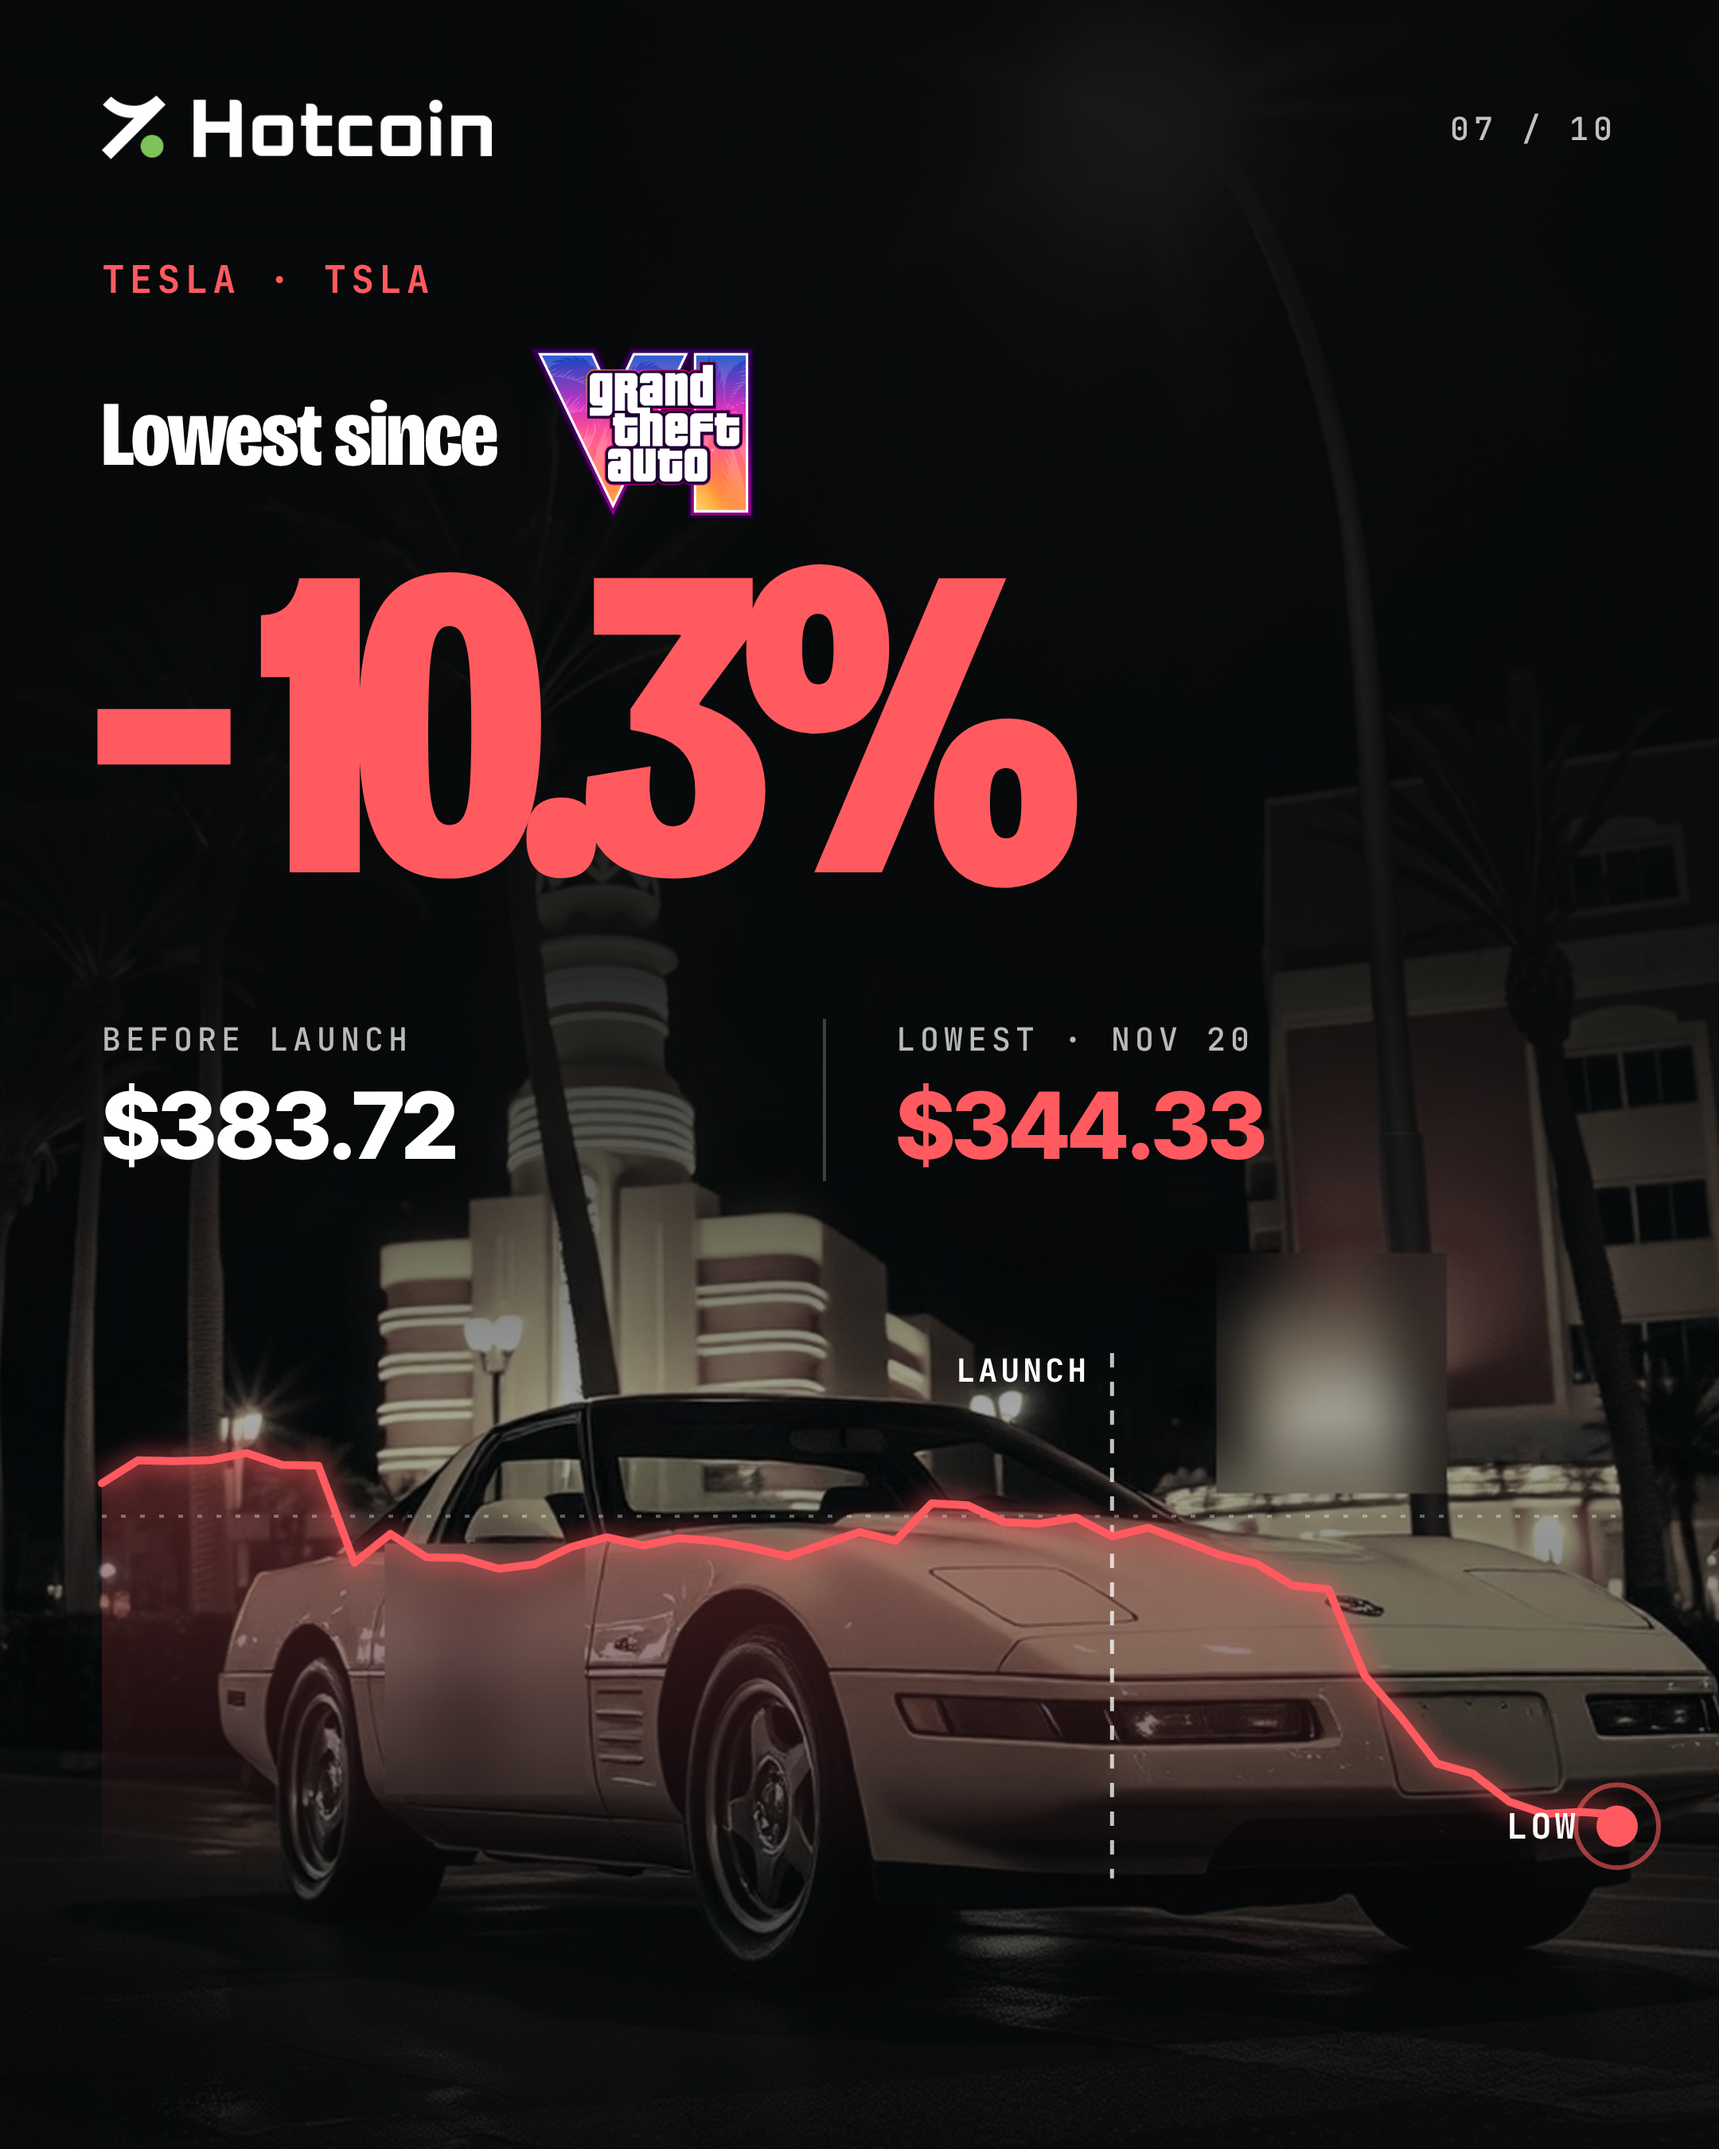
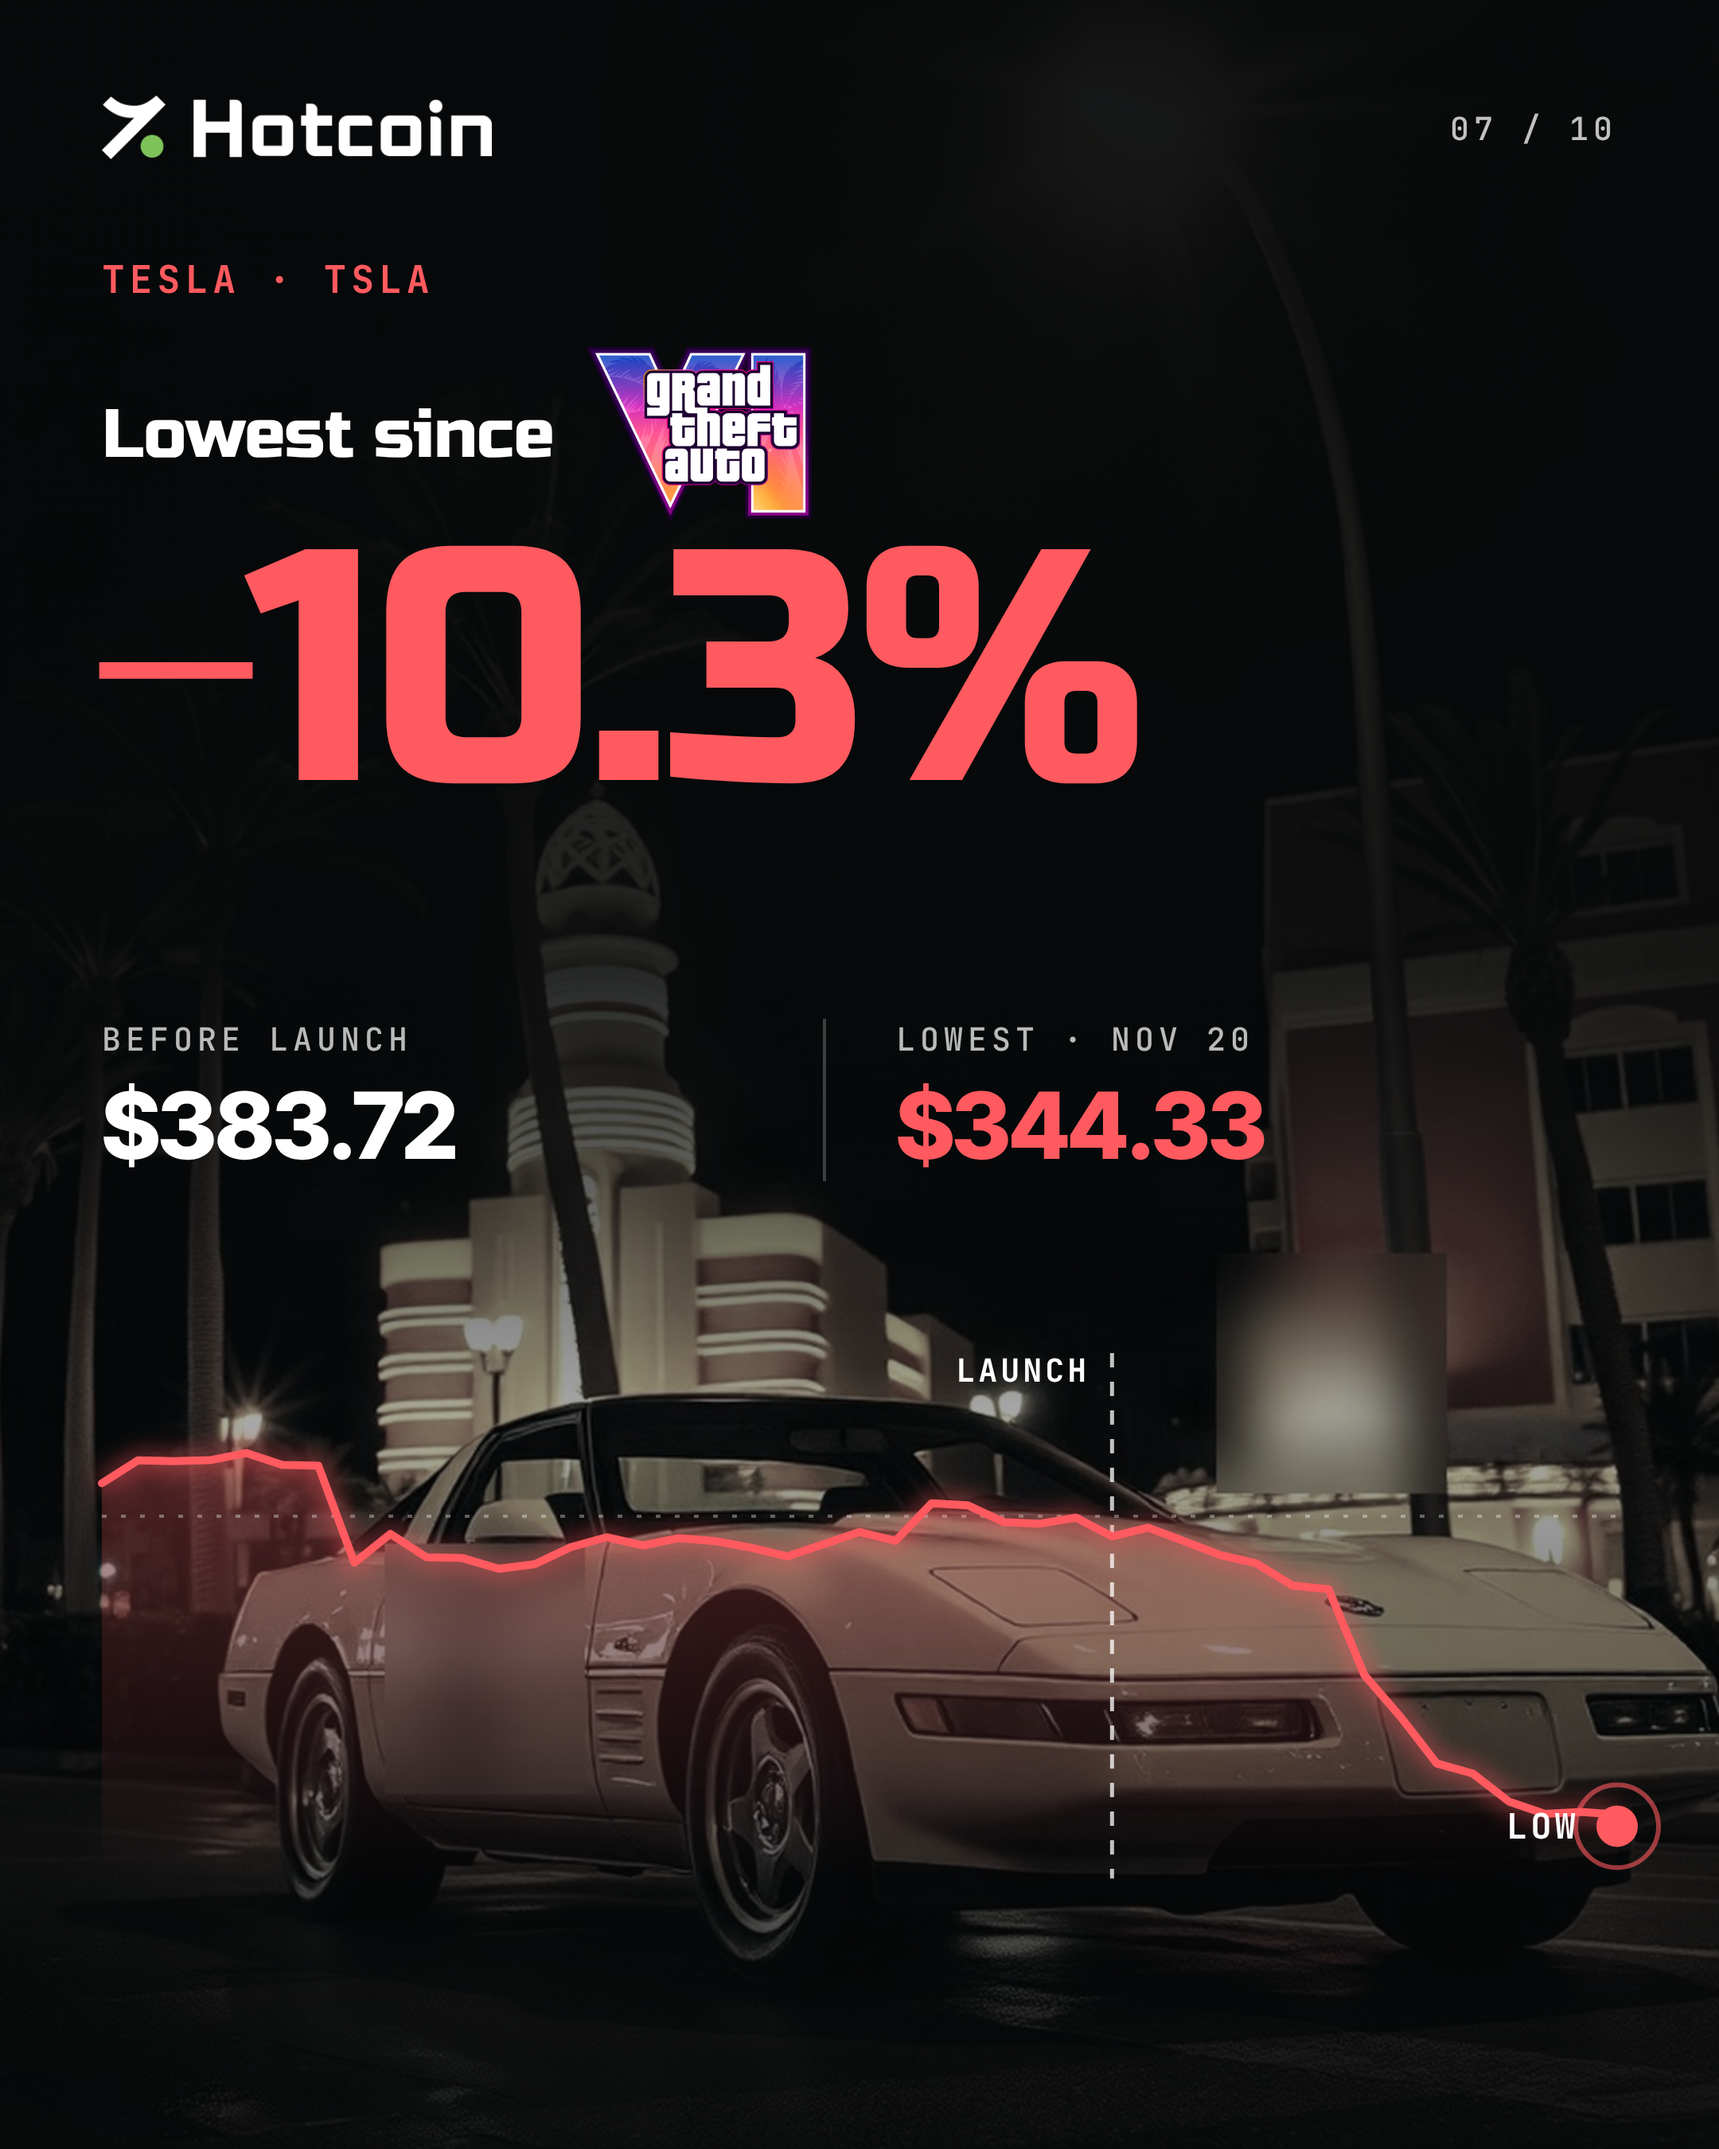
GTA VI carousel final: Russo One display font, question CTA
Claude-Session: https://claude.ai/code/session_018sSiMaWLaeVrJJ4axy8xGi

Changed region(s): [[0.062, 0.1556, 0.6824, 0.4356]]

diff --git a/social/gta6-cheaper/x-post.md b/social/gta6-cheaper/x-post.md
@@ -15,7 +15,8 @@ $SOL −11.9%
 $TSLA −10.3%
 Gold −6.4%
 
-Your entry point is here: hotcoin.com 🎮
+Did GTA VI just point to the best entry point? 🎮
+hotcoin.com
 
 Not financial advice.
 
@@ -25,7 +26,7 @@ The market situation since GTA VI is out 📉
 Lowest price since launch, vs the day before:
 Nvidia −17.5% · Dogecoin −13.6% · Ether −13.5% · Bitcoin −12.6% · Solana −11.9% · Tesla −10.3% · Gold −6.4% · Take-Two −7.7%
 
-Trade crypto and U.S. stocks in one app: hotcoin.com
+Did GTA VI just point to the best entry point? Trade crypto and U.S. stocks in one app: hotcoin.com
 
 Not financial advice. Crypto and stock prices are volatile.
 #GTA6 #Bitcoin #Crypto #Nvidia #Hotcoin
